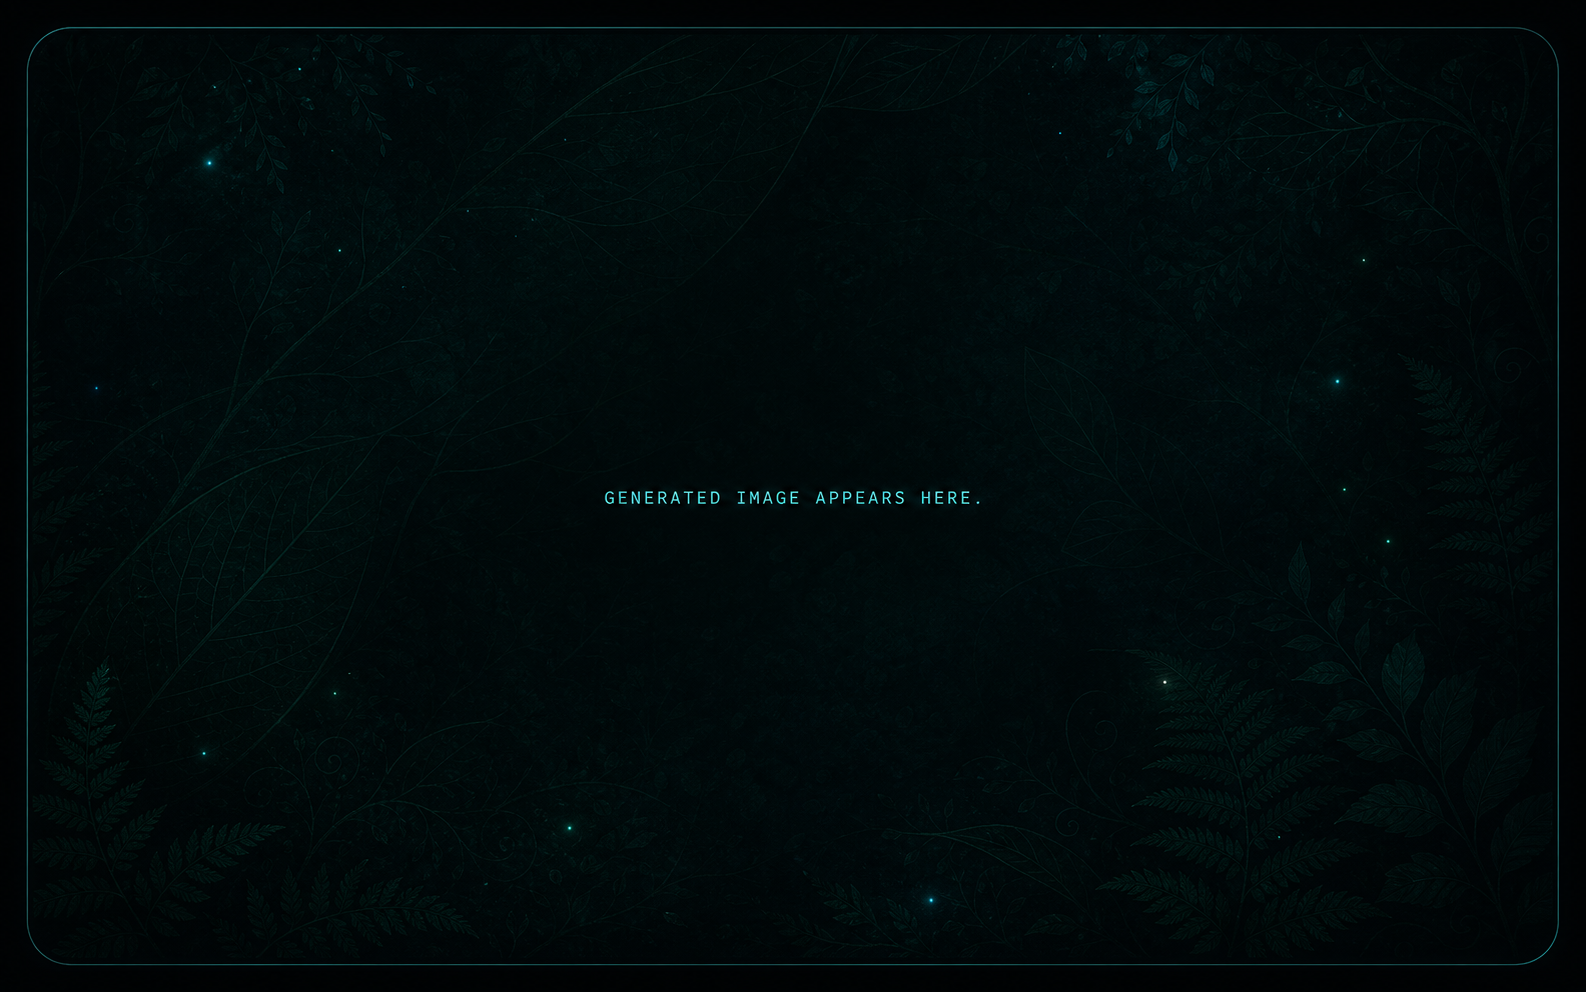
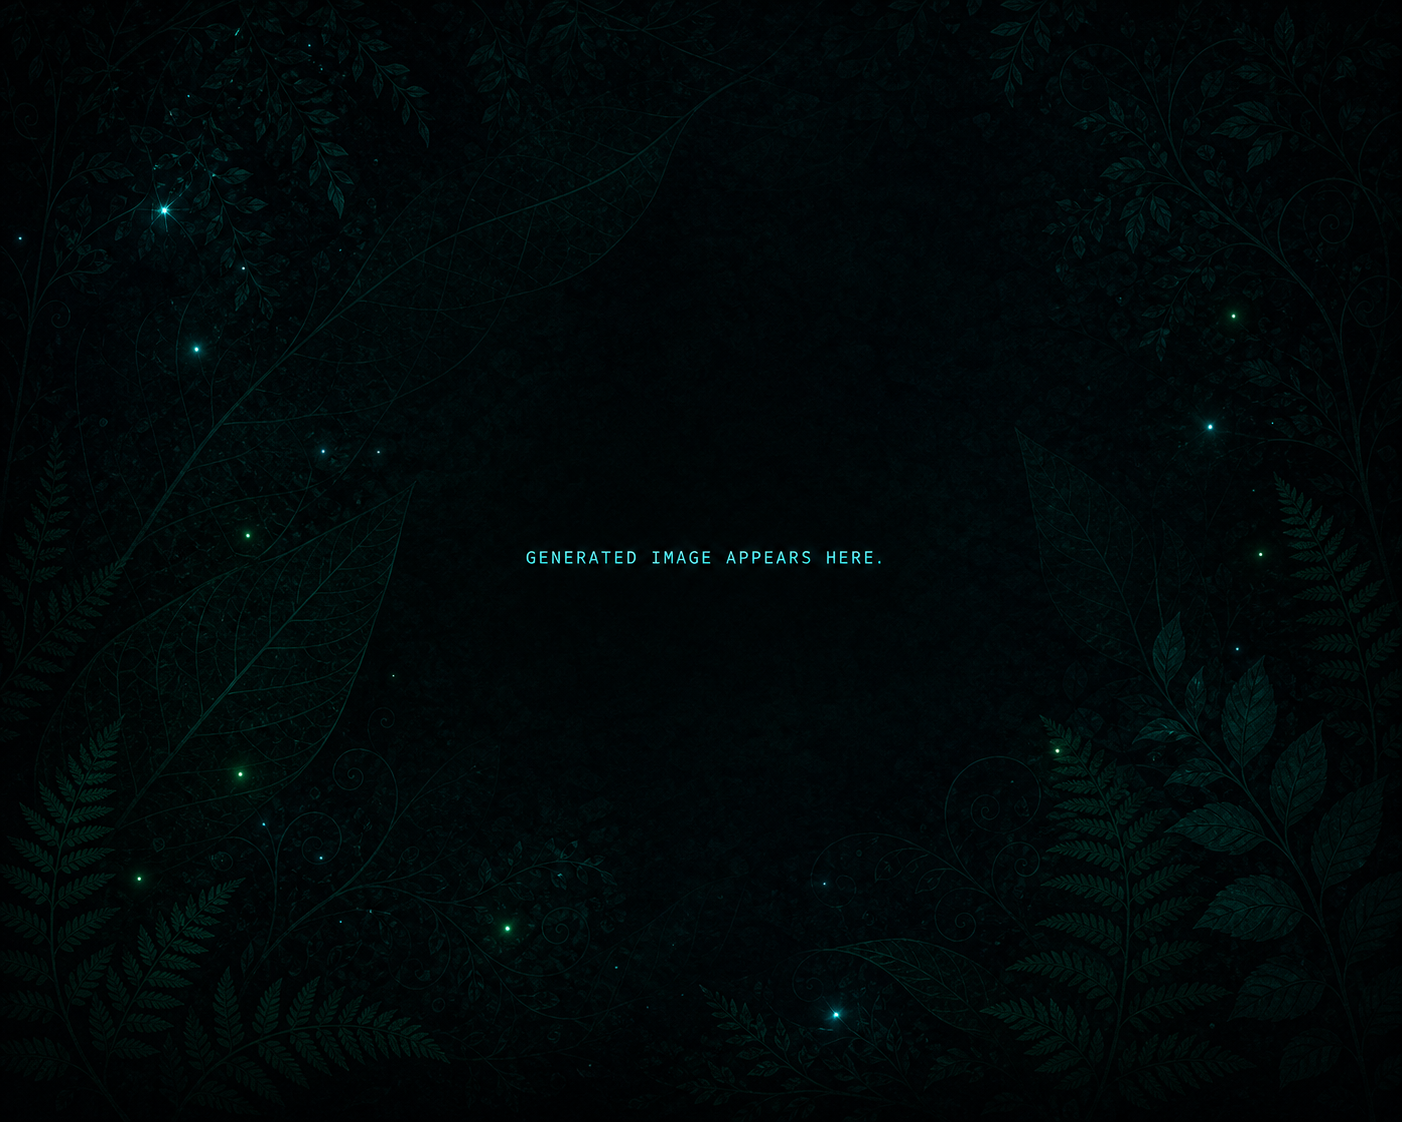
Use full bleed forest preview background

diff --git a/nymph_image.html b/nymph_image.html
@@ -444,7 +444,7 @@
       border: 1px solid rgba(40, 68, 70, 0.9);
       border-radius: 8px;
       background:
-        url("/ui/nymphs_preview_forest.png") center center / contain no-repeat,
+        url("/ui/nymphs_preview_forest.png") center center / cover no-repeat,
         rgba(4, 12, 11, 0.82);
       display: grid;
       place-items: center;